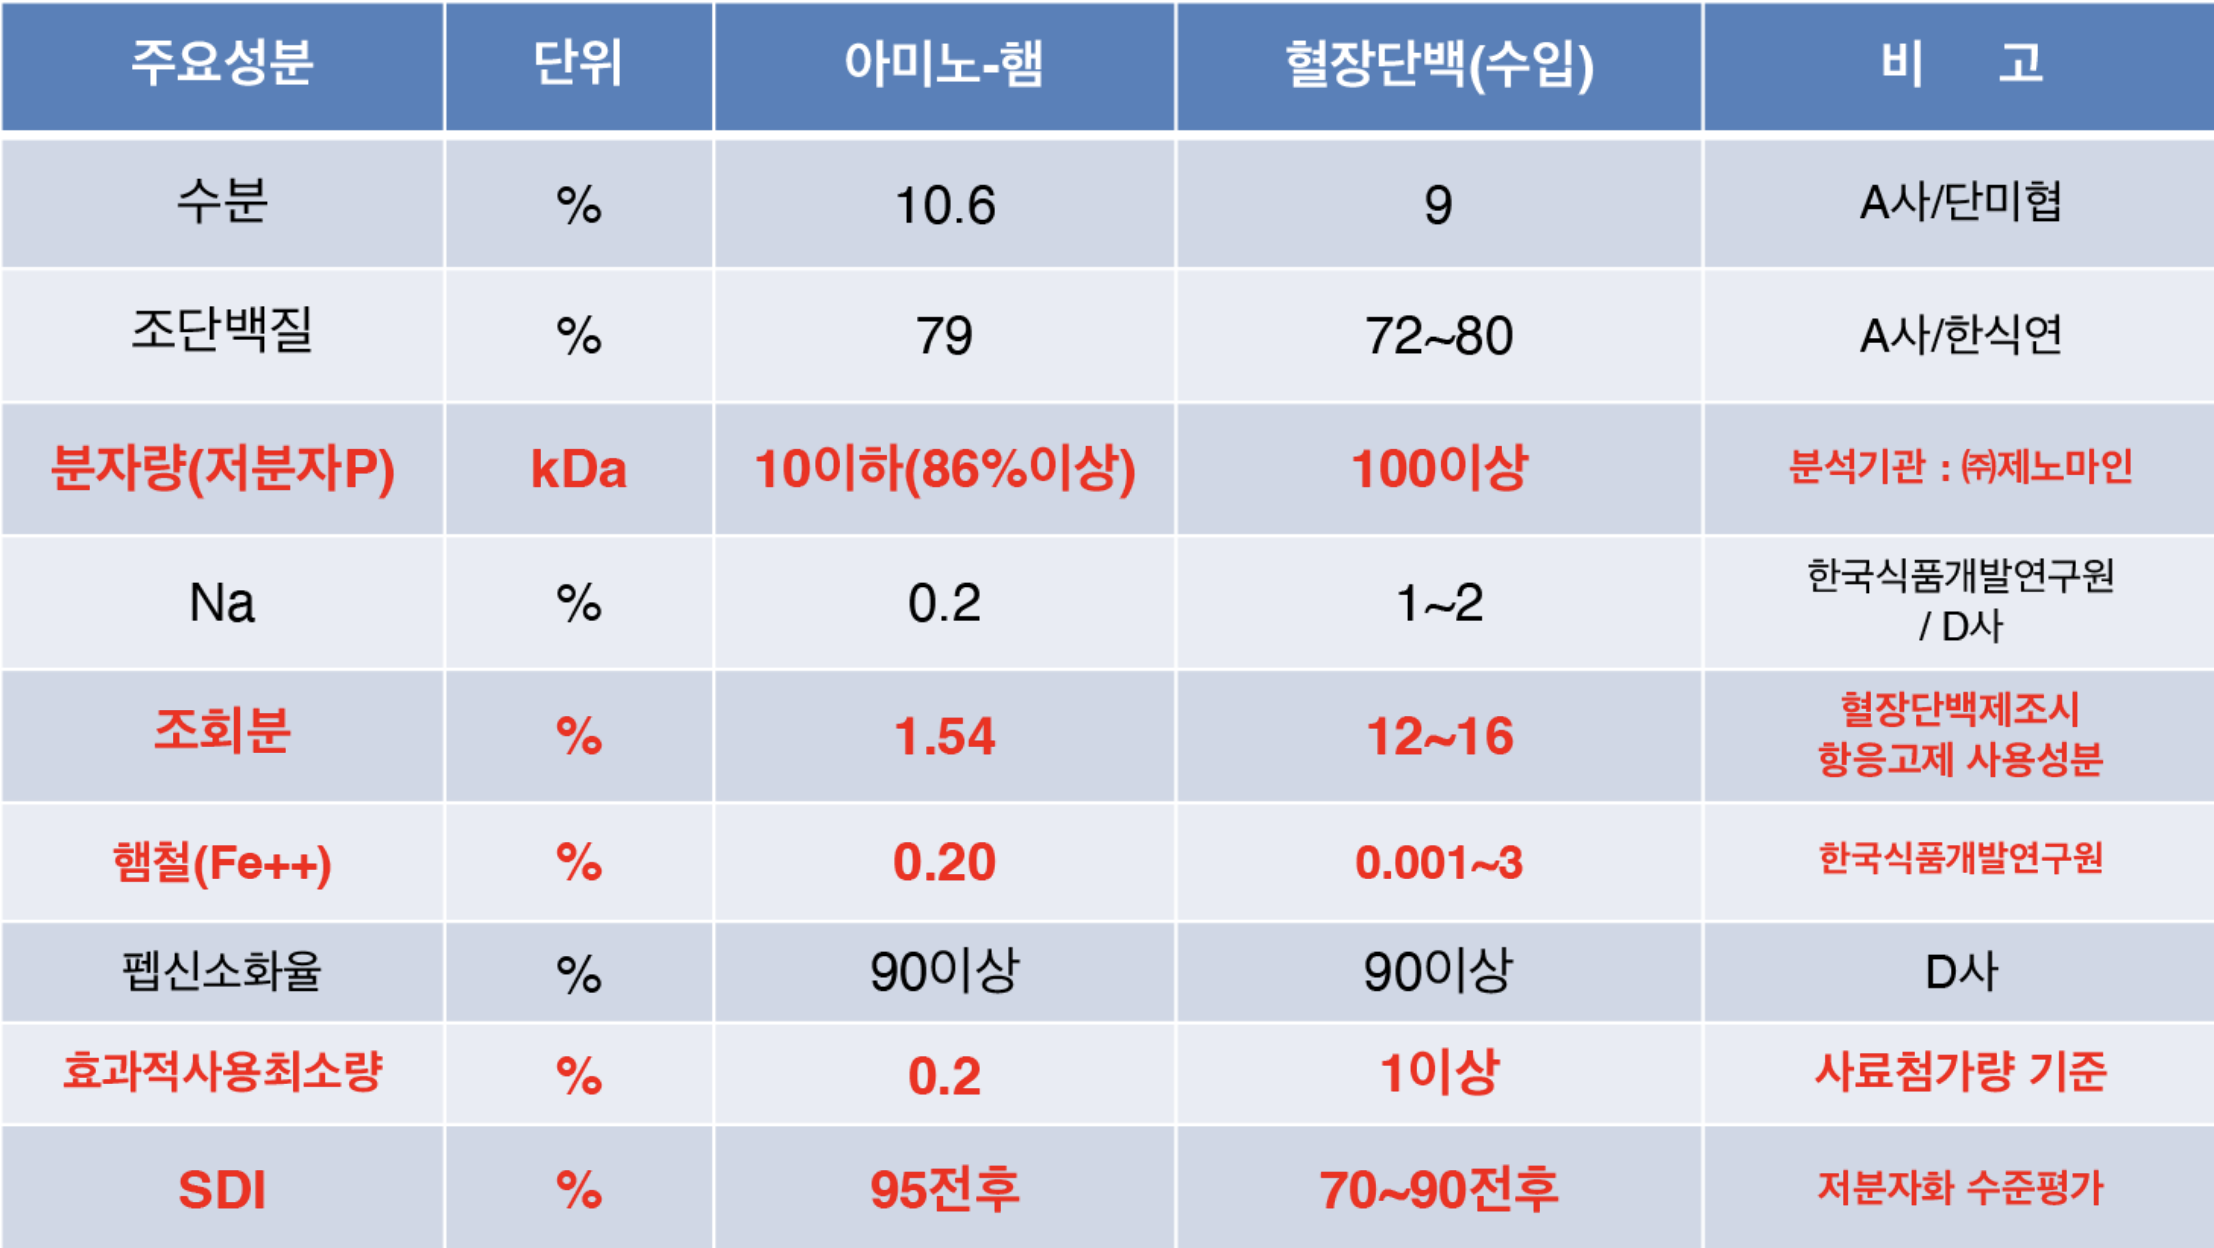
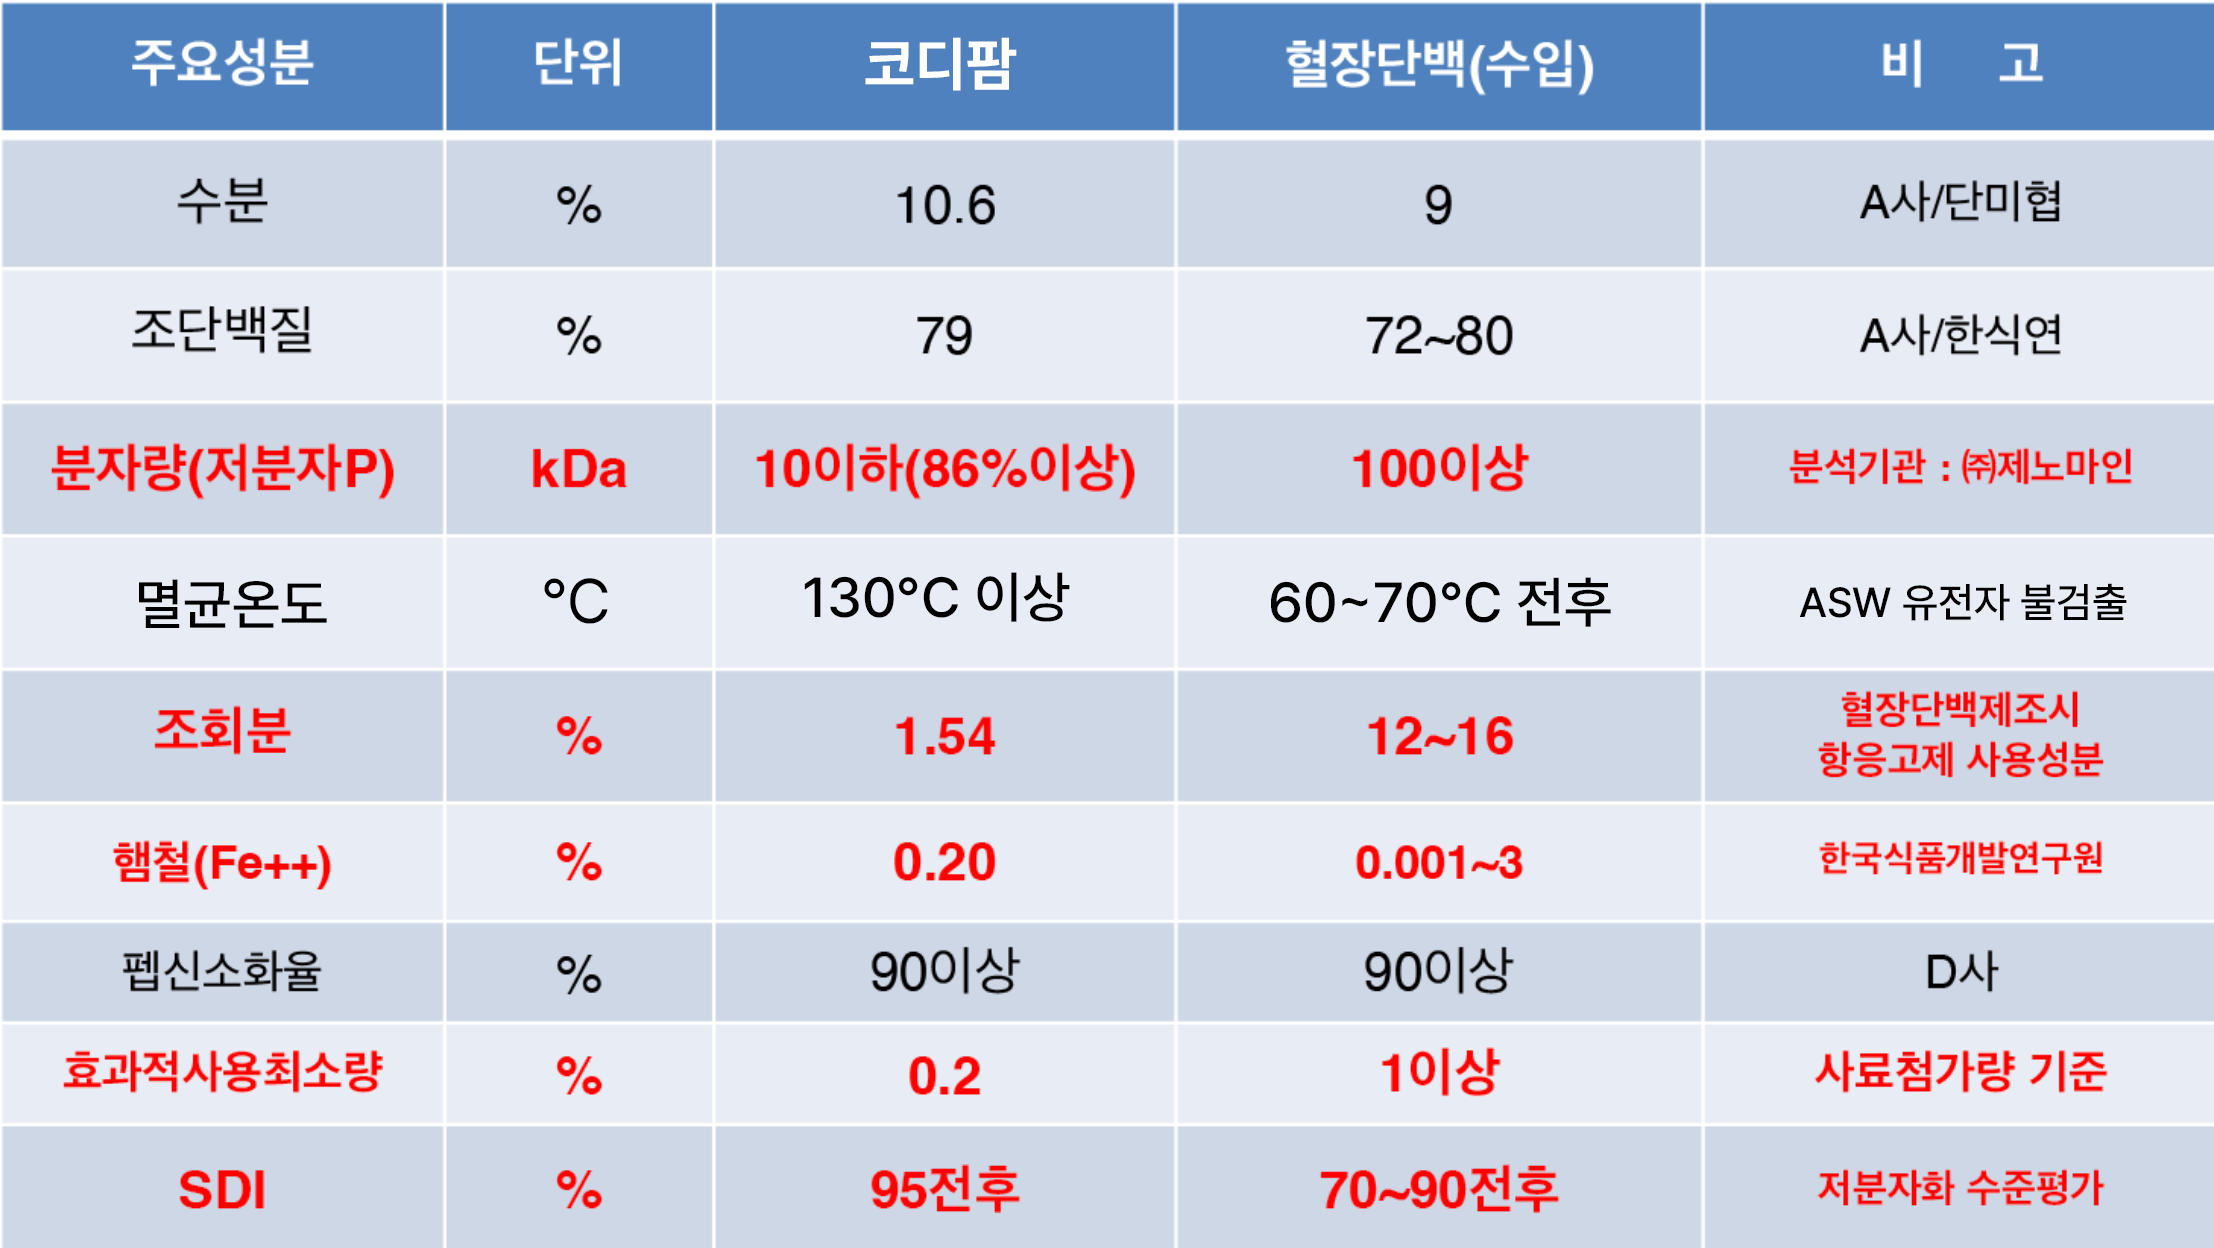
analysis  page update

diff --git a/src/app/analysis/sid/page.tsx b/src/app/analysis/sid/page.tsx
@@ -6,10 +6,10 @@ export default function SidAnalysisPage() {
       <section className="bg-[#0f3d2e] py-24 text-white">
         <div className="mx-auto max-w-7xl px-6">
           <h1 className="text-5xl font-black">
-            H-LMP 특성 및 SID 비교분석
+            H-LMP(코디팜) 특성 및 SID 비교분석
           </h1>
           <p className="mt-4 text-lg text-gray-300">
-            H-LMP Characteristics & SID Comparison
+            H-LMP Characteristics & SID(Standardized Ileal Digestible) Comparison
           </p>
         </div>
       </section>
@@ -42,13 +42,13 @@ export default function SidAnalysisPage() {
 
         <section className="mb-24">
           <h3 className="mb-8 text-3xl font-black text-gray-900">
-            1. 아미노햄(H-LMP) 유사 제품 비교 및 차별성
+            1. 코디팜(H-LMP)과 유사 제품(수입 혈장단백)) 비교 및 차별성
           </h3>
 
           <div className="overflow-hidden rounded-3xl border bg-white">
             <Image
               src="/sid1.png"
-              alt="아미노햄 유사 제품 비교"
+              alt="코디팜 유사 제품 비교"
               width={1600}
               height={900}
               className="w-full"
@@ -120,34 +120,7 @@ export default function SidAnalysisPage() {
           </div>
         </section>
 
-        <section className="rounded-3xl bg-[#0f3d2e] px-10 py-14 text-white">
-          <h3 className="text-3xl font-black">
-            결과 해석
-          </h3>
-
-          <p className="mt-6 text-lg leading-8 text-gray-300">
-            분자량이 SID에 영향을 주는 요인.
-          </p>
-
-          <ul className="mt-6 space-y-4 text-lg leading-8 text-gray-300">
-            <li>
-              - 소화 효소 접근성: 저분자 단백질은 효소가 쉽게 결합하여 분해 가능
-            </li>
-            <li>
-              - 구조적 복잡성: 고분자 단백질은 3차/4차 구조로 인해 효소 접근이 어려움
-            </li>
-            <li>
-              - 응집 가능성: 고분자 단백질은 열이나 pH 변화에 따라 응집되어 소화율 저하
-            </li>
-            <li>
-              - 가공 처리 여부: 가수분해나 열처리를 통해 고분자 단백질도 SID를 높일 수 있음
-            </li>
-          </ul>
-
-          <p className="mt-8 text-sm leading-7 text-gray-400">
-            자료 출처: 한국식품과학회지(Korean journal of food science and technology, v.30 no.4, 1998년, pp.988~991) / (주)제노마인 아미노햄 구성단백질농도측정(2024.12)
-          </p>
-        </section>
+               </section>
       </section>
     </main>
   );
